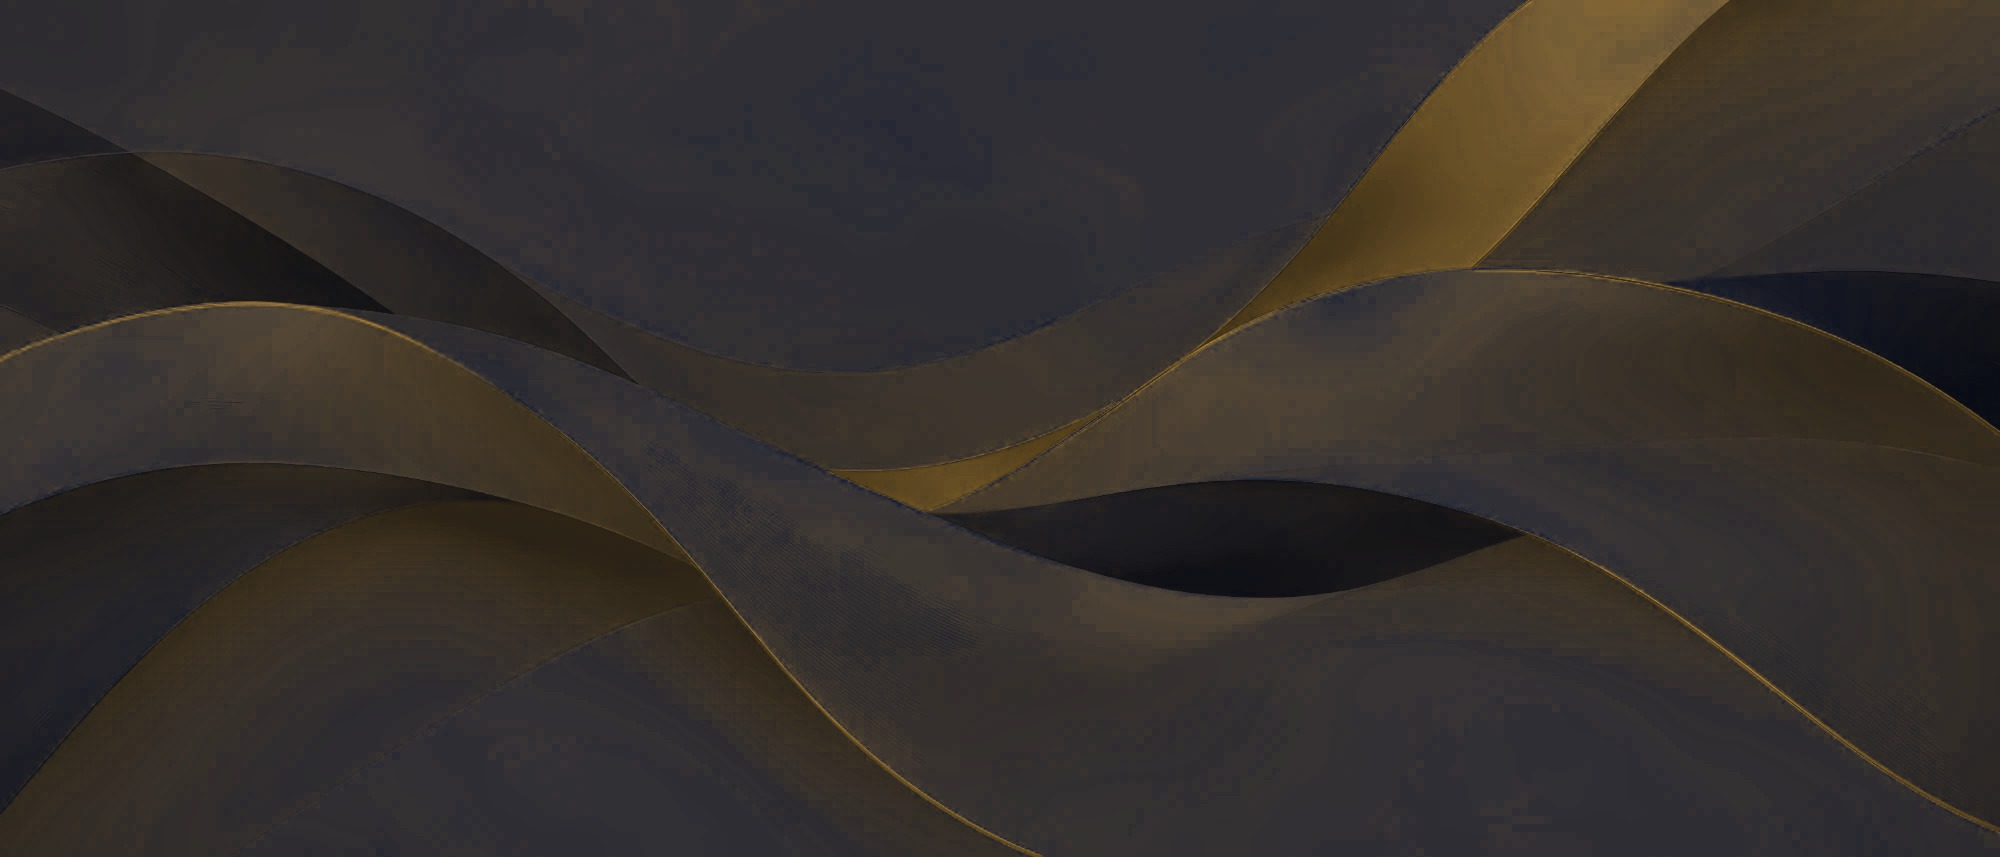
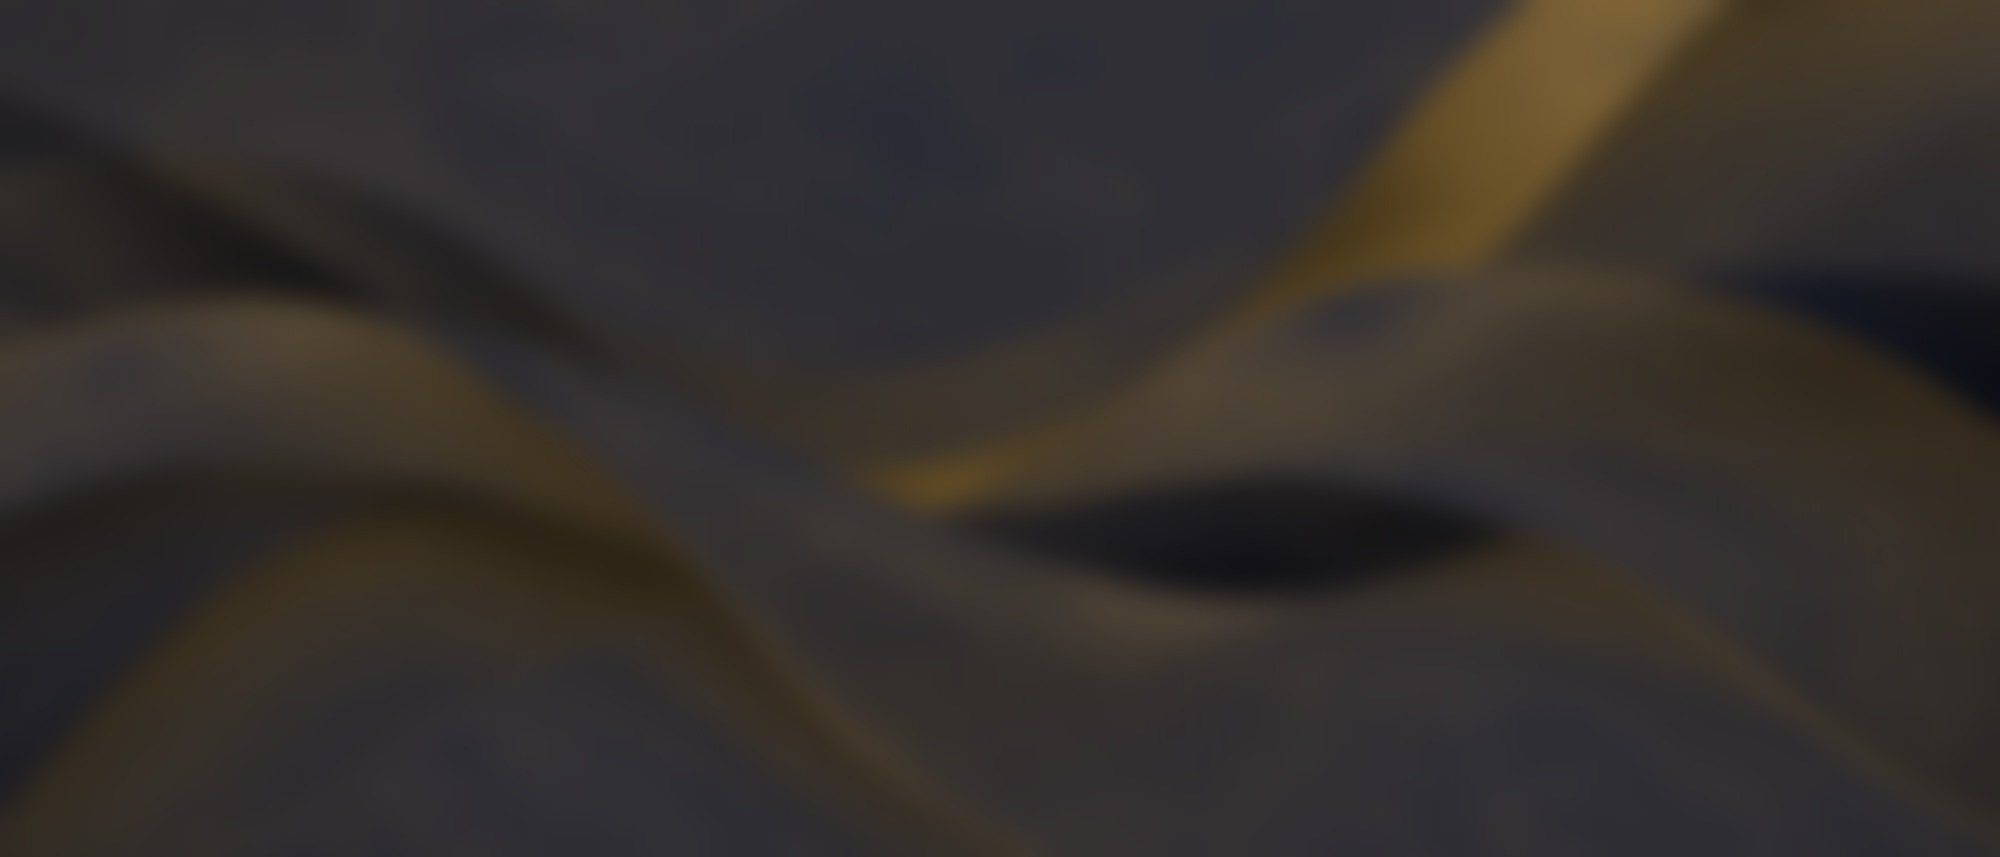
Les rubans sont floutés et voilés
Nets, les rubans du bandeau et de la barre de gauche se mêlaient au
texte. Ils sont désormais floutés dans les images elles-mêmes, ce qui ne
coûte rien à l'affichage, et un voile de la charte se pose par-dessus,
réglable sans refaire les images (D299).

À l'usage : des rubans doux, au loin, et un texte qui se lit.

diff --git a/crates/zyr-draw/design.css b/crates/zyr-draw/design.css
@@ -88,6 +88,11 @@
   --art-ridge-front: #303b55;
   --art-rim: rgba(248, 205, 106, 0.28);
 
+  /* The veil laid over the ribbons of the banner and of the bar on the
+     left, already blurred in their pictures: what is written on them
+     reads, and the ribbons stay in the distance. */
+  --ribbon-veil: rgba(11, 13, 18, 0.4);
+
   /* A grid of 8. Every spacing comes from it. */
   --space-1: 4px;
   --space-2: 8px;
@@ -174,6 +179,8 @@
   --art-ridge-near: #9ba2ad;
   --art-ridge-front: #7f8794;
   --art-rim: rgba(255, 255, 255, 0.45);
+
+  --ribbon-veil: rgba(255, 255, 255, 0.4);
 
   --shadow-1: 0 1px 2px rgba(16, 24, 40, 0.06);
   --shadow-2: 0 4px 16px rgba(16, 24, 40, 0.08);

diff --git a/crates/zyr-ui/src/home/ui/mod.rs b/crates/zyr-ui/src/home/ui/mod.rs
@@ -356,10 +356,13 @@ impl<'a> Painter<'a> {
     }
 
     /// The ribbons of this place of the window, covering the rounded
-    /// `at`; `plain` where they could not be read.
+    /// `at` under their veil; `plain` where they could not be read.
     pub fn ribbons(&self, place: Place, at: Rect, radius: f32, plain: Colour) {
         match zyr_draw::ribbons::ribbons(place, self.light) {
-            Some(picture) => self.picture(picture, at, radius),
+            Some(picture) => {
+                self.picture(picture, at, radius);
+                self.fill(at, radius, self.colours.ribbon_veil);
+            }
             None => self.fill(at, radius, plain),
         }
     }

diff --git a/crates/zyr-draw/src/ribbons.rs b/crates/zyr-draw/src/ribbons.rs
@@ -3,7 +3,9 @@
 //!
 //! Ivory satin ribbons hemmed with gold, made for ZyrDesk. The dark ones
 //! are the same ribbons turned to gold on night blue, and the bar's are
-//! the banner's stood upright, so the two read as one cloth. Carried by
+//! the banner's stood upright, so the two read as one cloth. All are
+//! blurred in the pictures themselves, so the words written over them
+//! read and the blur costs nothing when drawn. Carried by
 //! the program, not read from beside it, so nothing can be missing; and
 //! read once, the first time a window asks for them.
 

diff --git a/docs/DECISIONS.md b/docs/DECISIONS.md
@@ -4671,6 +4671,14 @@ L'interface ne décide rien. Où en est un ordinateur et par quelle route on le 
 
 **Ce qui se voit.** Une page claire et unie, un bandeau et une barre de gauche drapés de rubans de satin, ivoire et or en clair, or sur bleu nuit en sombre.
 
+## D299. Les rubans sont floutés et voilés (2026-10-14, pendant MZ)
+
+**Pourquoi.** Nets ([D298](#d298-des-rubans-de-satin-habillent-le-bandeau-et-la-barre-de-gauche-2026-10-14-pendant-mz)), les rubans se mêlaient au texte du bandeau et au menu de la barre de gauche : on ne lisait plus rien.
+
+**Ce qui est fait.** Les rubans sont floutés dans les images elles-mêmes (un flou gaussien de 14 pixels de l'image pour le bandeau, de 20 pour la barre, plus petite à l'écran), fait une fois en les préparant : à l'affichage, il ne coûte rien. Un voile de la charte (`--ribbon-veil`, blanc en clair, bleu nuit en sombre, à 40 %) se pose par-dessus, pour qu'on puisse le doser sans refaire les images.
+
+**Ce qui se voit.** Des rubans doux, au loin, sous un texte qui se lit.
+
 ## Décisions ouvertes (défauts proposés, à confirmer avant le jalon concerné)
 
 - O1 (avant M5). Concurrence de sessions : défaut = 1 spectateur entrant actif avec reprise possible (takeover), plusieurs sessions sortantes autorisées.
